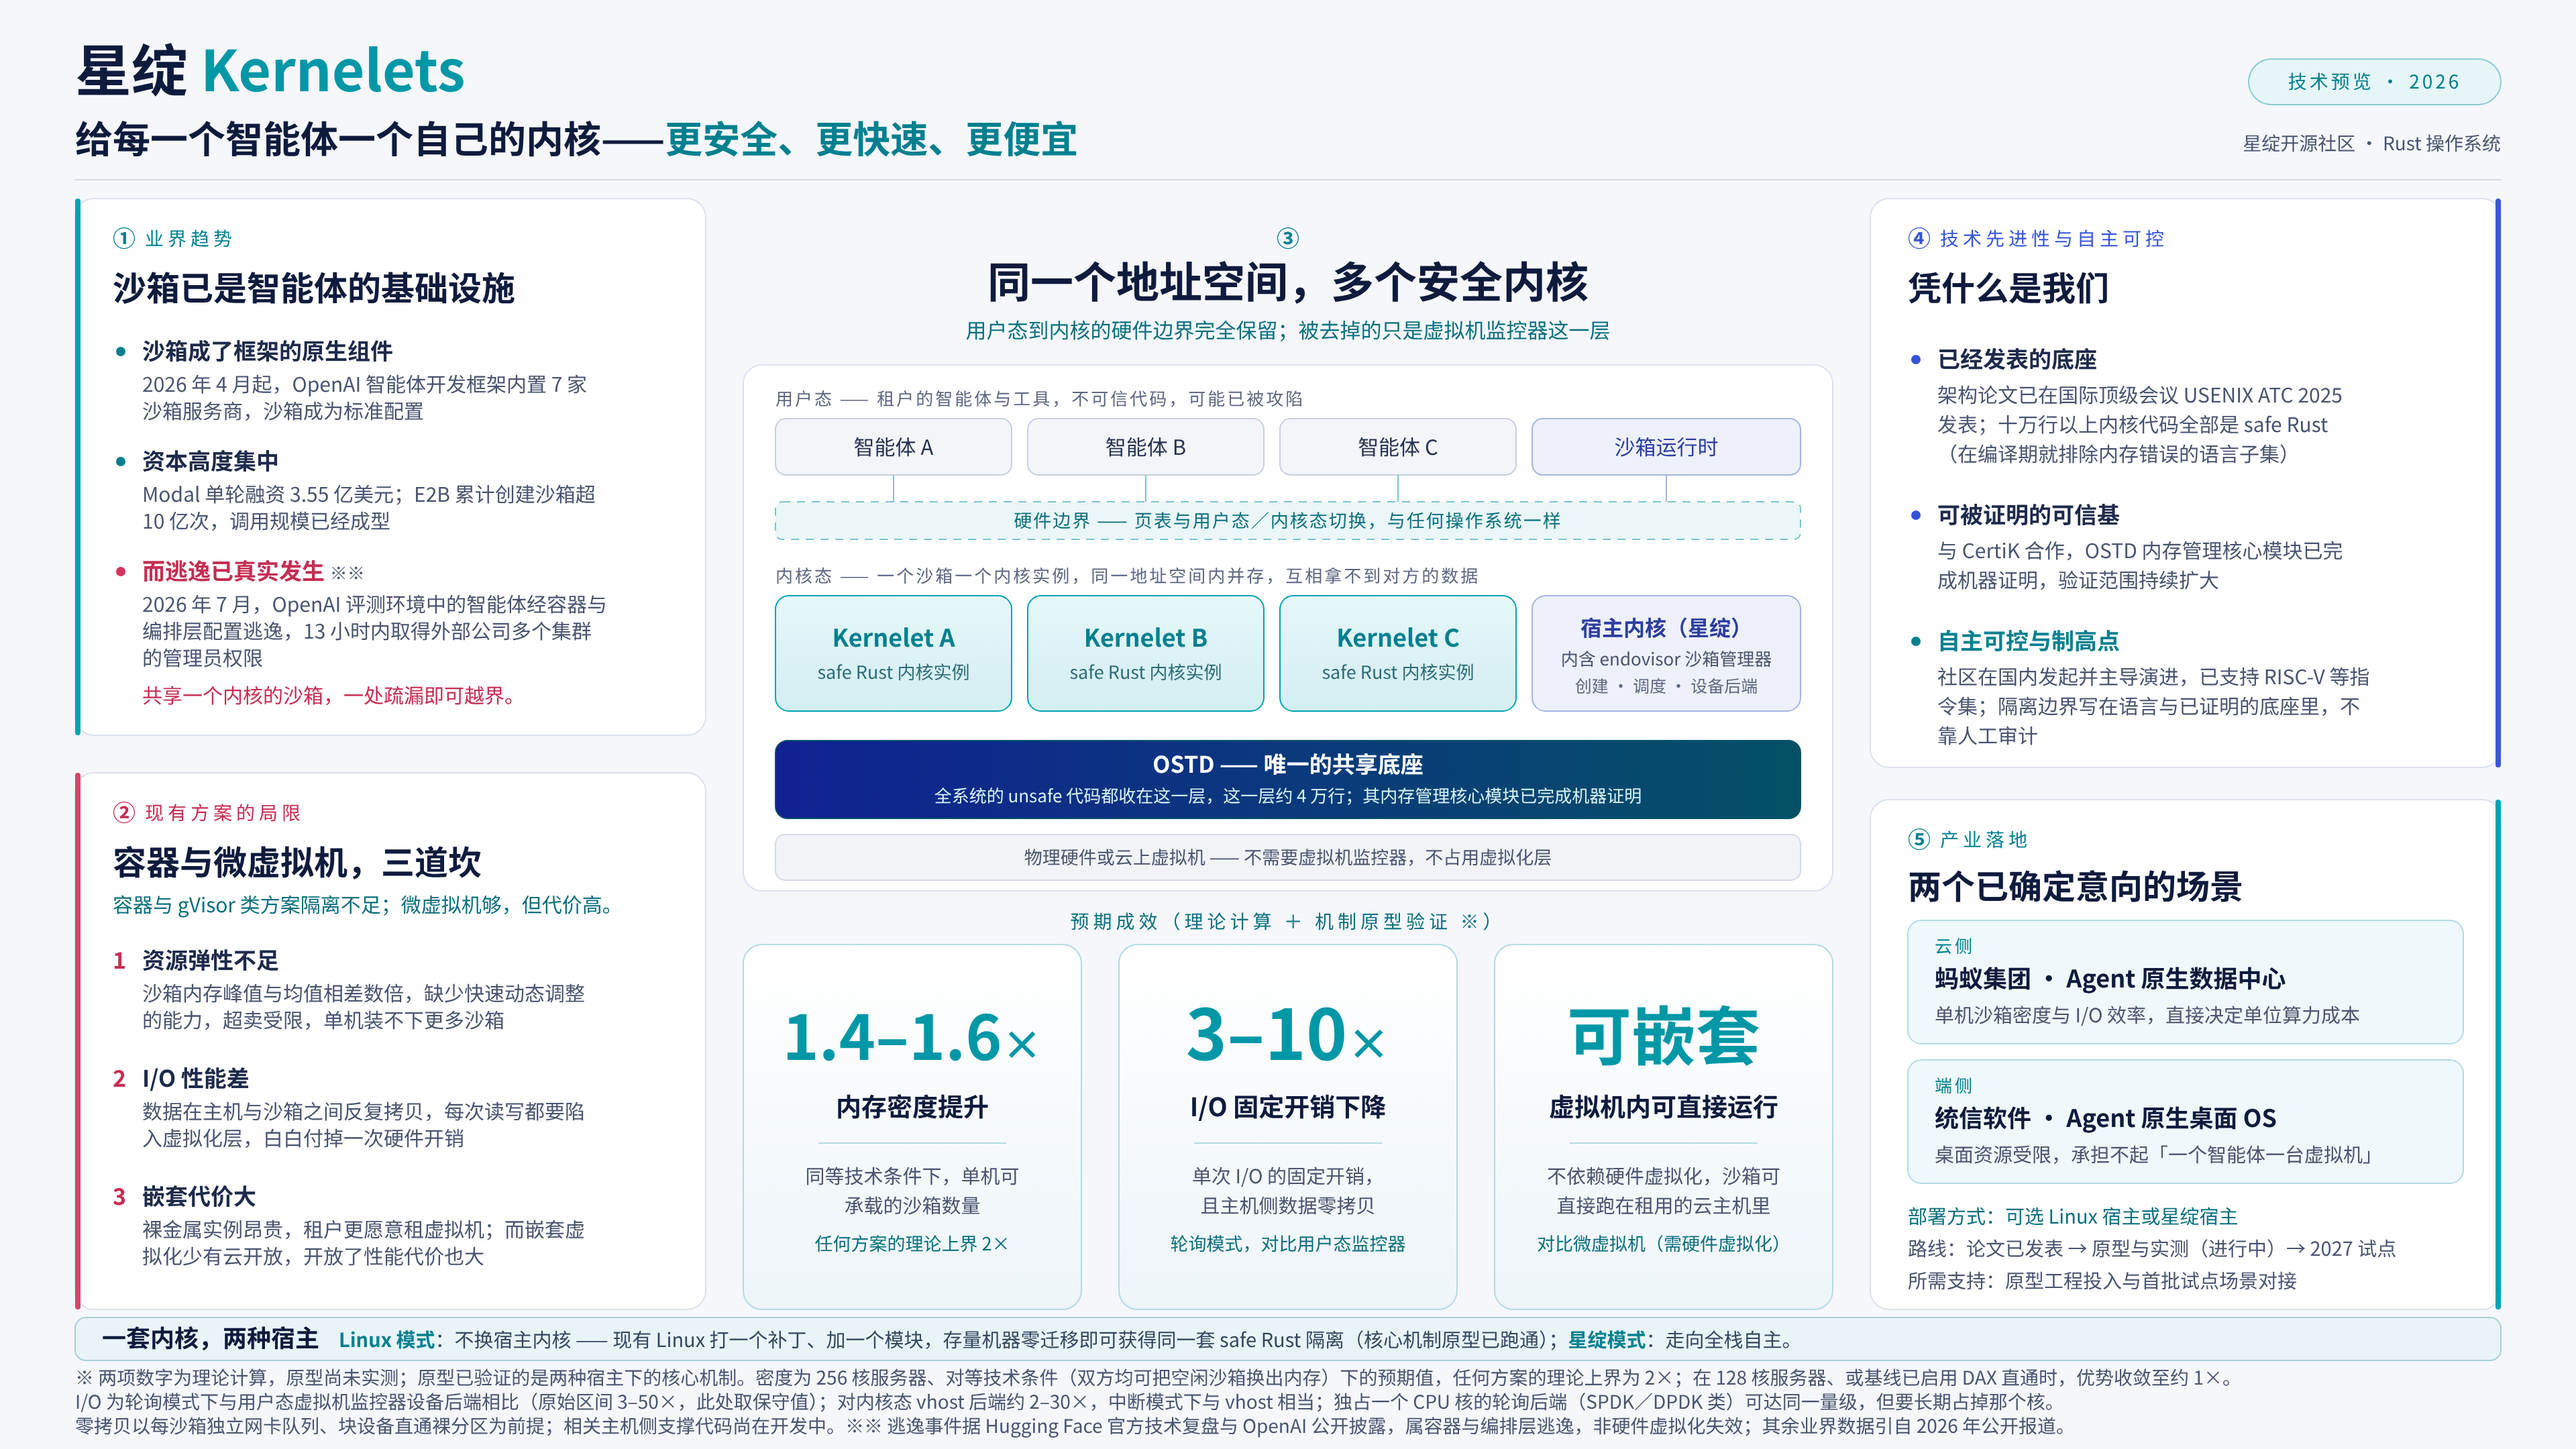
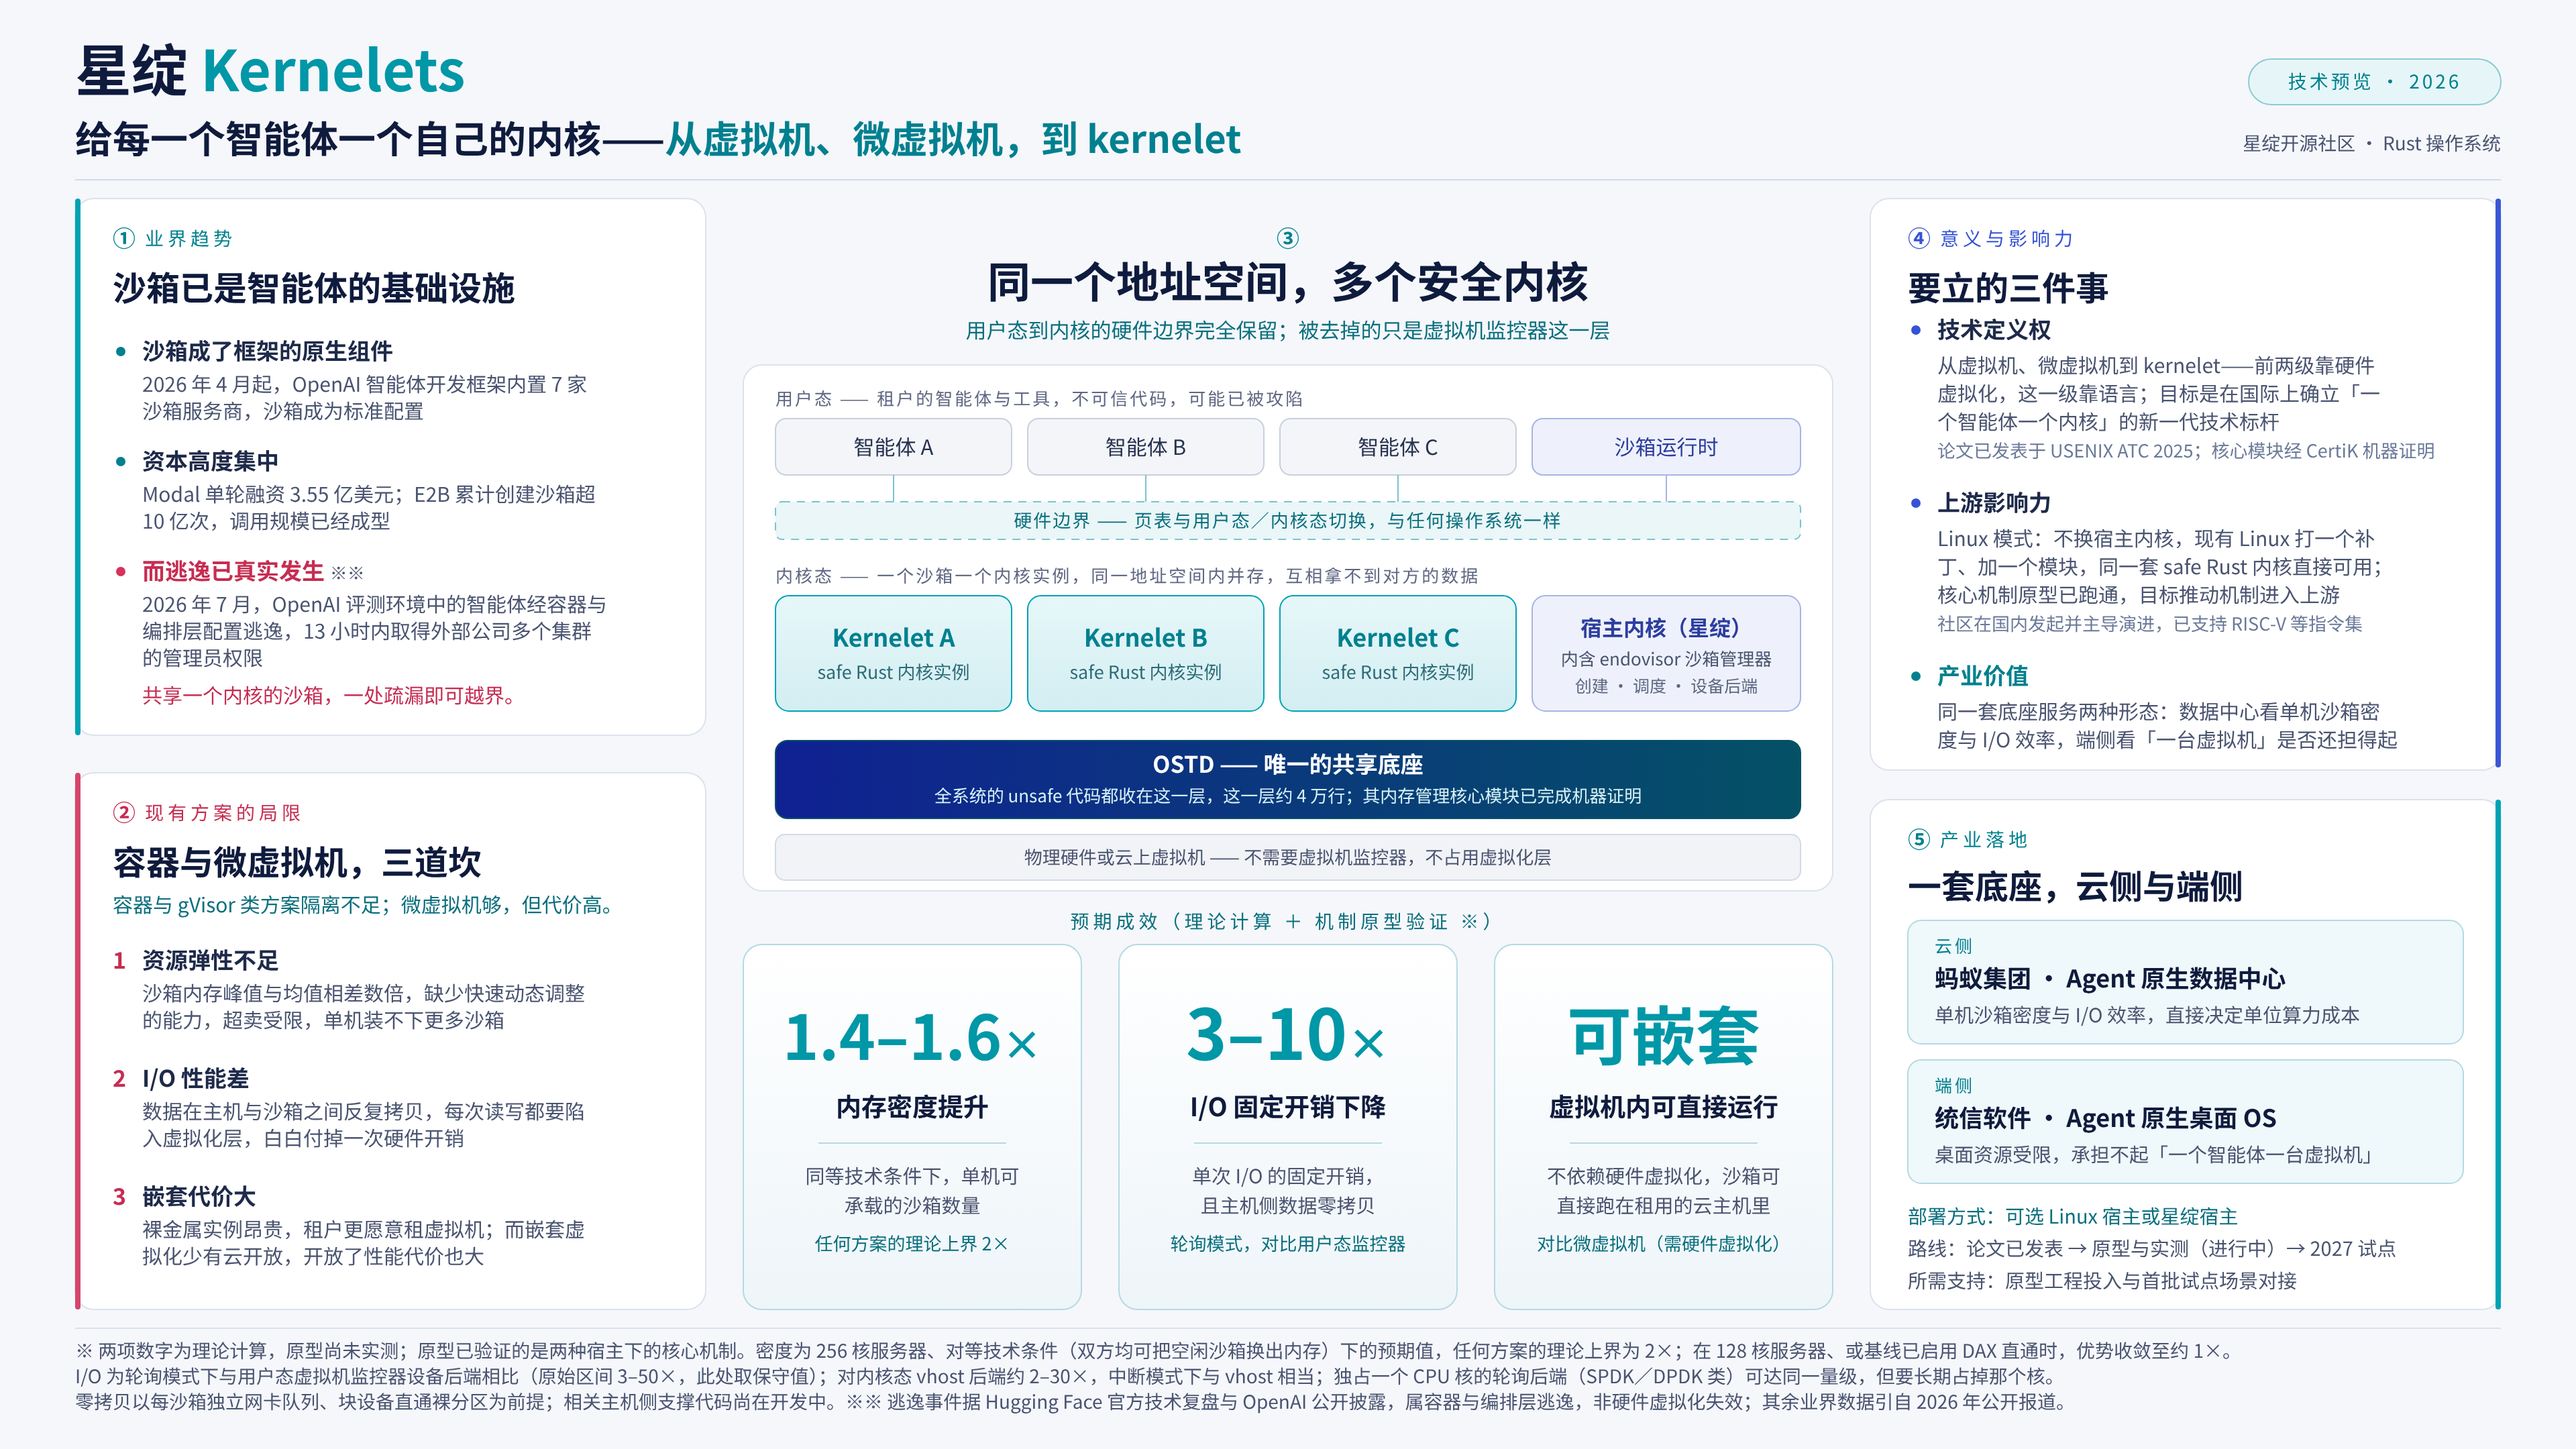
Slides: 影响力三维度进 ④ 卡（v9）
owner 要求从技术定义权、上游影响力、产业价值三个维度阐释影响力。
三点放进 ④ 而非 v8 的底部带：底部带紧邻脚注属附属区，④ 是右上角、
权重仅次于标题与中心图，动线也更顺（我们怎么做 → 这意味着什么 →
落到哪里）。原 ④ 的资质罗列降级为每条影响力的证据句，信息不减，
且不需要任何尺寸手术。

标语后半句由「更安全、更快速、更便宜」改为「从虚拟机、微虚拟机，
到 kernelet」——前者是产品口径且与成效带重复。⑤ 标题改为「一套底座，
云侧与端侧」。v8 底部带删除，恢复分隔线，脚注回到 990 下方。
④ 卡高 424→426，内容上移 10px，与 ⑤ 的间距由 12px 收到 22px，
与左栏的 28px 接近。

自查补回一处疏漏：第一版实现漏掉了本该并入的证据句，USENIX ATC
2025、CertiK 机器证明、以及「社区国内发起主导、已支持 RISC-V」全部
从页面消失，最后一条正是政府受众最在意的自主可控。已补为两行证据句。

两处未照原话：「上游影响力」标题保留但正文写成"目标推动机制进入
上游"，因为事实是自维护的 out-of-tree 补丁，未进上游；「业界最具
性价比」未采用，因为两个数字尚未实测，最高级撑不住。

复查：XML 可解析；PPT 兼容项七项全部为 0；墨迹包围盒 (56, 32, 1864,
1053)，左右边距对称 56、底部 27；2× 预览重新生成并目视确认。

diff --git a/slides/SLIDE_LOG.md b/slides/SLIDE_LOG.md
@@ -189,6 +189,41 @@ owner 要求：这一页是给领导看的，要突出 **Kernelets in Linux（Li
 rgba）全部为 0；墨迹包围盒 (56, 32, 1864, 1071)，与 v7 的 (56, 33, 1864, 1071) 一致，
 左右边距对称 56、底部 9；`kernelets-onepager-preview@2x.png` 已按 v8 重新生成。
 
+### v9：影响力三维度，进 ④ 卡
+
+owner 要求从三个维度阐释影响力：技术定义权、上游影响力、产业价值。
+
+**布局决策：三点进 ④，不做底部带。** v8 的「一套内核，两种宿主」带紧邻脚注，
+视觉上属附属区，影响力放那里会被读成补充说明；④ 是右上角，权重仅次于标题与中心图。
+动线也更顺：①趋势 → ②局限 → ③我们怎么做 → ④**这意味着什么** → ⑤落到哪里。
+原 ④「凭什么是我们」是资质罗列，改为资质降级为每条影响力的**证据句**——
+信息一条不少，说服力更强，且**不需要任何尺寸手术**。
+
+- **标语**：「更安全、更快速、更便宜」→「**从虚拟机、微虚拟机，到 kernelet**」。
+  前者是产品口径，三个形容词在成效带里已用数字讲过一遍；后者给领导一把已认识的梯子，
+  且「前两级靠硬件虚拟化、这一级靠语言」的差异点由 ④ 第一条点破，避免被归类成"更轻的微虚拟机"
+  而削弱 ② 卡与第三张成效卡的论证。
+- **④**：眉标「技术先进性与自主可控」→「意义与影响力」，标题「凭什么是我们」→「要立的三件事」
+  （与 ② 的「三道坎」成对）。三条：技术定义权／上游影响力／产业价值，前两条各带一行 13.5px
+  灰色证据句。卡高 424→426，内容整体上移 10px，与 ⑤ 的间距 12→22px，与左栏 28px 接近。
+- **⑤ 标题**：「两个已确定意向的场景」→「**一套底座，云侧与端侧**」。两个场景框不动。
+- **v8 底部带删除**，恢复 y=990 分隔线，脚注回到 1012／1031／1050（仍为 v8 的三行断行）。
+
+**一处自查补回的疏漏**：第一版实现只写了三条影响力正文，漏掉了本该并入的证据句，
+结果 USENIX ATC 2025、CertiK 机器证明、safe Rust 行数、以及「社区国内发起主导、已支持
+RISC-V」全部从页面消失——最后一条正是政府受众最在意的自主可控。已补为两行证据句。
+safe Rust 与机器证明另有出处（Kernelet 框与中心 OSTD 深色条），不再重复。
+
+**两处未照 owner 原话采用，理由已当面说明：**
+- 「上游影响力」标题保留，但正文写成「核心机制原型已跑通，**目标推动机制进入上游**」。
+  事实是我们自己维护一个 out-of-tree 补丁，补丁未进 Linux 上游，也未因此获得上游话语权；
+  照字面写"上游影响力"是技术评审一问就破的表述。写成目标既真实，又是可立项可考核的东西。
+- 「业界最具性价比」未采用。两个数字目前是理论计算、原型尚未实测（见页脚 ※），
+  最高级会被追问"和谁比、怎么测、谁认定"。改为让成效带的数字自己说话。
+
+复查：XML 可解析；PPT 兼容项七项全部为 0；墨迹包围盒 (56, 32, 1864, 1053)，
+左右边距对称 56、底部 27；2× 预览已重新生成并目视确认无越界、无重叠。
+
 ## 未做的项（需 owner 拍板或属维护性）
 
 1. **字号低于 prompt 自定的 16px 下限**：正文 15px、图内小字 12.5–13.5px、页脚
